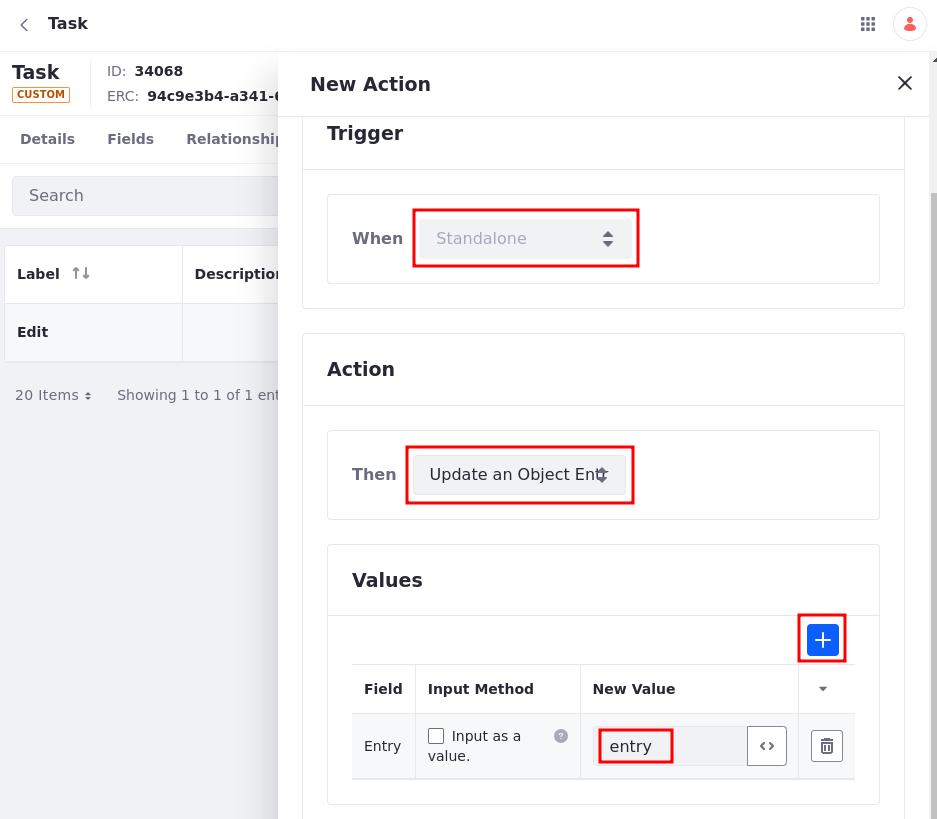
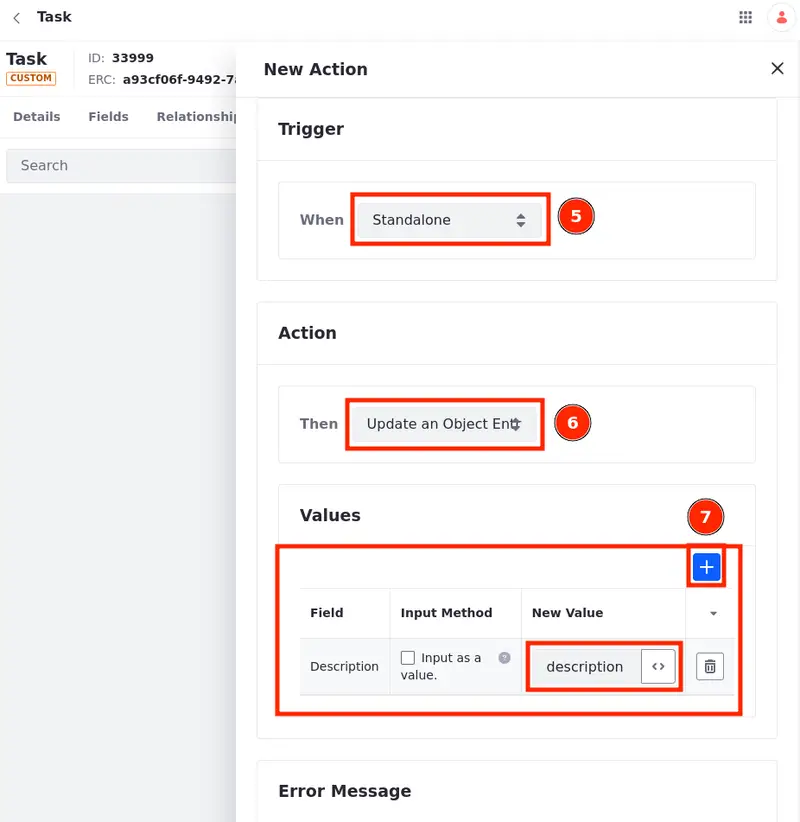
LRDOCS-12296-10860 wordsmithing and img altered after SME review

diff --git a/docs/dxp/latest/en/site-building/displaying-content/using-display-page-templates/using-multiple-display-page-templates-to-create-multi-step-applications.md b/docs/dxp/latest/en/site-building/displaying-content/using-display-page-templates/using-multiple-display-page-templates-to-create-multi-step-applications.md
@@ -13,9 +13,9 @@ Generally, a default display page template is set for a specific content type in
 
 ## Creating Multi-Step Applications Using Multiple Display Page Templates
 
-You can use multiple display page templates to your advantage and create applications with multiple steps and link each step to a different display page template.
+You can use multiple display page templates, create applications with multiple steps, and link each step to a different display page template.
 
-Using display page templates, objects, and Form Container fragments you can create a page that allows users to add an object entry and edit it in a different page. To do that, it is necessary to create a [custom object](#tasks-custom-object), a [display page template](#edit-display-page-template) to edit the object entry, and a [content page](#content-page-to-display-the-application) where the user can enter a new object entry and view a list of existing object entries.
+Using display page templates, objects, and Form Container fragments, you can create a page that allows users to add an object entry and edit it in a different page. To do that, it is necessary to create a [custom object](#tasks-custom-object), a [display page template](#edit-display-page-template) to edit the object entry, and a [content page](#content-page-to-display-the-application) where the user can enter a new object entry and view a list of existing object entries.
 
 ### Tasks Custom Object
 
@@ -29,15 +29,15 @@ Using display page templates, objects, and Form Container fragments you can crea
 
 1. Under Action Builder, select *Standalone* as the Trigger.
 
-   This allows this action to be mapped to a button.
+   This option allows the [action to be mapped to a button](../../../building-applications/objects/creating-and-managing-objects/actions/using-manual-actions.md#mapping-buttons-to-object-actions-in-content-pages).
 
 1. Select *Update an Object Entry* as the Action.
 
-   This updates the object entry using a selected value whenever the trigger is activated.
+   This option updates the object entry using a selected value whenever the trigger is activated.
 
 1. Click *Add* in Values and choose the Description field. Under New Value, enter *description* (the name of our field).
 
-   This replaces the object entry's Description field value with the new value.
+   This option replaces the object entry's Description field value with the new value.
 
    ![Create the Edit action to update the object description value](./using-multiple-display-page-templates-to-create-multi-step-applications/images/01.png)
 
@@ -79,7 +79,7 @@ Your object is now published and it can be used to generate a form using a Form 
 
 1. Add a *Heading* fragment to the left grid module in your collection display and click on it twice. Under the Mapping tab, choose Description as the field.
 
-   This maps the text added to the Description field as the Heading content.
+   This action maps the text added to the Description field as the Heading content.
 
 1. Add a *Button* fragment to the right grid module in your collection display and click on the text twice to edit it. Change the text to *Edit*.
 
@@ -109,19 +109,17 @@ Although you can view the page, add an object entry, and see the list of tasks u
 
 1. Click on the *Submit* button twice. Under Field, select the *Edit* action.
 
-   Once users click on the submit button, not only are they redirected to the List of Tasks page, but they also activate the Edit action that replaces the previous value with the newly added one.
+   Once users click on the submit button, not only are they redirected to the List of Tasks page, but they also activate the Edit action that replaces the previous Description value with the newly added one.
 
 ```{tip}
-Not only are Form Container fragments enabled in display page templates, but you can also edit the Form Container fragment and leave a subset of input fragments. Then, when the object entry is updated, only the available fields are updated.
+Not only are Form Container fragments enabled in display page templates, but you can also edit the Form Container fragment and use only a subset of input fragments. Then, when the object entry is updated, only the available fields are updated.
 
-You can edit the fragments as you see fit and save the Form Container fragment as a composition to be used in both content pages and display pages.
+Edit the fragments as you see fit and save the Form Container fragment as a composition to be used in both content pages and display pages.
 ```
 
 ![Creating the Edit display page template](./using-multiple-display-page-templates-to-create-multi-step-applications/images/05.gif)
 
 ### SEO Considerations About the Display Page Templates
-
-<!-- I was not sure if I was supposed to add this information here... but here it is anyways. -->
 
 If the display page is marked as default:
 
@@ -140,6 +138,8 @@ These changes are made automatically if the display page is not marked as defaul
    - When another page has a link to the display page template, add the attribute `rel="nofollow"` to the `<a>` tag on the template.
 
    - If a display page marked as default exists for the same object, a `<link>` element is added with the attribute `rel="canonical"` to the `<head>` section, pointing to the default display page template as the canonical page.
+
+![SEO configuration page for the display page template.](./using-multiple-display-page-templates-to-create-multi-step-applications/images/06.png)
 
 ### Resulting Application
 
@@ -161,7 +161,7 @@ If you click on the Edit button, you are redirected to the Edit display page whe
 You can create a display page template as an initial step and configure the Form Container's Success Interaction to Go to Entry Display Page pointing to the next display page template creating a chained multi-step form.
 ```
 
-![This is how the application should work](./using-multiple-display-page-templates-to-create-multi-step-applications/images/06.gif)
+![Testing your resulting application.](./using-multiple-display-page-templates-to-create-multi-step-applications/images/07.gif)
 
 ## Related Topics
 

diff --git a/docs/dxp/latest/en/site-building/displaying-content/using-display-page-templates/creating-and-managing-display-page-templates.md b/docs/dxp/latest/en/site-building/displaying-content/using-display-page-templates/creating-and-managing-display-page-templates.md
@@ -19,7 +19,7 @@ See [Using Display Page Templates](../using-display-page-templates.md) to learn 
 
 1. Open the *Site Menu* (![Site Menu](../../../images/icon-product-menu.png)) and click *Design* &rarr; *Page Templates*.
 
-1. Click the *Display Page Templates* tab and click *Add* ( ![Add Button](./../../../images/icon-add.png) ).
+1. Click the *Display Page Templates* tab and click *Add* (![Add Button](./../../../images/icon-add.png)).
 
 1. Enter a *Name* for your template and select a *Content Type* and *Subtype*, if applicable. Then click *Save*.
 
@@ -56,7 +56,7 @@ For example, when you link a button in a content page to a Mapped URL, you can s
 
 To set a friendly URL to your display page template,
 
-1. While editing your display page template, click *Options* ( ![Options icon](../../../images/icon-options.png) ) at the top right corner of the page.
+1. While editing your display page template, click *Options* (![Options icon](../../../images/icon-options.png)) at the top right corner of the page.
 
 1. Select *Configure*.
 
@@ -72,7 +72,7 @@ This feature is currently behind a release feature flag. Read [Release Feature F
 
 If a content type (e.g., custom object, web content article, or blogs entry) has default and additional display page templates, you can map links to any of the available templates for that content type.
 
-With this feature, you create different display page templates for an object, each corresponding to a step in a mapped form (submission, editing, and approval). Then, you can choose which display page template to use for each stage enabling the creation of multi-step forms.
+With this feature, create different display page templates for an object, each corresponding to a step in a mapped form (e.g., submission, editing, and approval). Then, you can choose which display page template to use for each stage, enabling the creation of multi-step forms.
 
 ![Map links to different display page templates](./creating-and-managing-display-page-templates/images/05.png)
 
@@ -105,15 +105,15 @@ Before you delete a display page template that is in use, you have two ways to u
 
 Follow these steps to view your display page template usage and unassign your content:
 
-1. Open the *Site Menu* ( ![Site Menu](../../../images/icon-product-menu.png) ) and go to *Design* &rarr; *Page Templates*.
+1. Open the *Site Menu* (![Site Menu](../../../images/icon-product-menu.png)) and go to *Design* &rarr; *Page Templates*.
 
 1. Click the *Display Page Templates* tab.
 
-1. Click the display page template's *Actions* menu ( ![Actions](../../../images/icon-actions.png) ) and select *View Usages*.
+1. Click the display page template's *Actions* menu (![Actions](../../../images/icon-actions.png)) and select *View Usages*.
 
 1. Select one or more elements from the list of content using the display page template.
 
-1. Click the *Actions* menu ( ![Actions](../../../images/icon-actions.png) ) in the top-right corner and select *Assign to Default* or *Unassign*.
+1. Click the *Actions* menu (![Actions](../../../images/icon-actions.png)) in the top-right corner and select *Assign to Default* or *Unassign*.
 
 1. Click *OK*.
 
